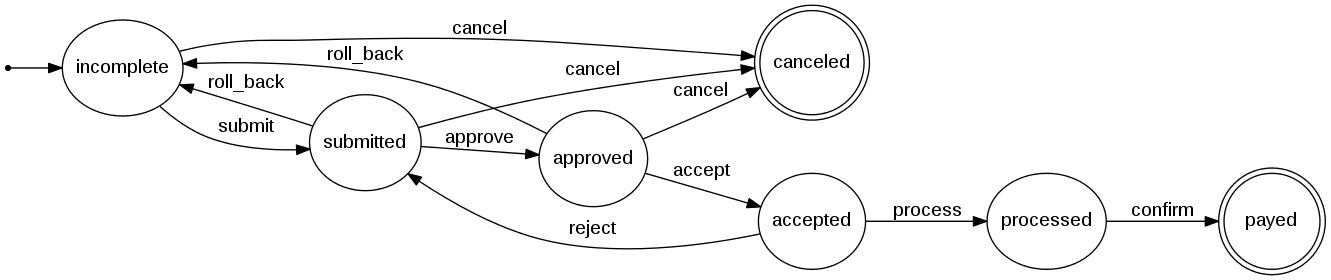
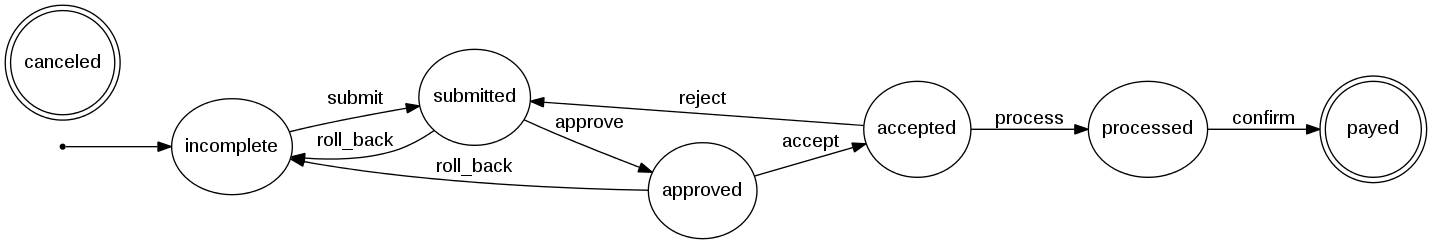
cancel is not longer handled by state_machine
* cancel method is not longer declared as a regular state_machine transition,
   but as a custom method which works very similar but with some subtle
   differences
 * new permissions for cancel, so now requesters can cancel already accepted
   requests or reimbursements

diff --git a/app/models/request.rb b/app/models/request.rb
@@ -55,13 +55,7 @@ class Request < ActiveRecord::Base
       transition :approved => :incomplete
     end
 
-    event :cancel do
-      # Separated transitions because grouping them using arrays confuses the
-      # Graphviz task for automatic documentation
-      transition :incomplete => :canceled
-      transition :submitted => :canceled
-      transition :approved => :canceled
-    end
+    state :canceled
   end
 
   # @see HasState.assign_state
@@ -90,11 +84,32 @@ class Request < ActiveRecord::Base
     state == 'submitted'
   end
 
+  # Checks whether a tsp user should be allowed to cancel
+  #
+  # tsp users cannot cancel a request if it has already been accepted by the
+  # requester
+  #
+  # @return [Boolean] true if allowed
+  def cancelable_by_tsp?
+    can_cancel? and not accepted?
+  end
+
   # Checks whether a user should be allowed to completely delete the request.
   #
   # @return [Boolean] true if allowed
   def can_be_destroyed?
     not with_transitions?
+  end
+
+  # Checks whether can have a transition to 'canceled' state
+  #
+  # Overrides the HasState.can_cancel?, preventing cancelation of requests that
+  # already have a reimbursement
+  # @see HasState.can_cancel?
+  #
+  # return [Boolean] true if #cancel can be called
+  def can_cancel?
+    not canceled? and reimbursement.nil?
   end
 
   # Checks whether the request is ready for reimbursement

diff --git a/lib/travel_support_program/has_state.rb b/lib/travel_support_program/has_state.rb
@@ -46,6 +46,35 @@ module TravelSupportProgram
       HasStateMailer::notify_to(people, :state, self, self.human_state_name, self.state_updated_at)
     end
 
+    # Sets the state to 'canceled'
+    #
+    # It works exactly in the same way that any other transition defined by
+    # state_machine. It's implemented in a separate way to keep the workflow as
+    # clean as possible. Since a cancelation can happen at any moment,
+    # implementing it as a regular transition could lead state_machine to the
+    # conclusion that 'canceled' is the only valid final state.
+    #
+    # return [Boolean] true if the state is updated
+    def cancel
+      return false if not can_cancel?
+      self.state = 'canceled'
+      self.state_updated_at = DateTime.now
+      save
+    end
+
+    # Checks whether can have a transition to 'canceled' state
+    #
+    # Compatibility for #cancel with transitions defined by state_machine.
+    # Default implementation always return true if state is not already
+    # 'canceled', meaning that a process can be canceled at any moment.
+    # Classes using this mixin should implement their own custom behaviour.
+    # @see #cancel
+    #
+    # return [Boolean] true if #cancel can be called
+    def can_cancel?
+      not canceled?
+    end
+
     protected
 
     # User internally to set the state_updated_at attribute

diff --git a/app/models/reimbursement.rb b/app/models/reimbursement.rb
@@ -79,11 +79,7 @@ class Reimbursement < ActiveRecord::Base
       transition :accepted => :submitted
     end
 
-    event :cancel do
-      transition :incomplete => :canceled
-      transition :submitted => :canceled
-      transition :approved  => :canceled
-    end
+    state :canceled
   end
 
   # @see HasState.assign_state
@@ -117,6 +113,27 @@ class Reimbursement < ActiveRecord::Base
   # @return [Boolean] true if allowed
   def editable_by_tsp?
     state == 'submitted'
+  end
+
+  # Checks whether a tsp user should be allowed to cancel
+  #
+  # tsp users cannot cancel a reimbursement if it has already been accepted
+  # by the requester
+  #
+  # @return [Boolean] true if allowed
+  def cancelable_by_tsp?
+    can_cancel? and not accepted?
+  end
+
+  # Checks whether can have a transition to 'canceled' state
+  #
+  # Overrides the HasState.can_cancel?, preventing cancelation of reimbursements
+  # that have already been processed
+  # @see HasState.can_cancel?
+  #
+  # return [Boolean] true if #cancel can be called
+  def can_cancel?
+    not canceled? and not processed? and not payed?
   end
 
   # Checks whether the reimbursement can have final notes

diff --git a/app/models/bank_account.rb b/app/models/bank_account.rb
@@ -9,11 +9,11 @@ class BankAccount < ActiveRecord::Base
   # The associated reimbursement
   belongs_to :reimbursement, :inverse_of => :bank_account
 
-  validates :holder, :presence => true, :unless => "reimbursement.incomplete?"
-  validates :bank_name, :presence => true, :unless => "reimbursement.incomplete?"
+  validates :holder, :presence => true, :unless => "reimbursement.incomplete? || reimbursement.canceled?"
+  validates :bank_name, :presence => true, :unless => "reimbursement.incomplete? || reimbursement.canceled?"
   validates :format, :presence => true, :inclusion => {:in => %w(iban national)}
-  validate :iban, :bic, :presence => true, :unless => "reimbursement.incomplete? || !iban?"
-  validate :national_account_code, :country_code, :presence => true, :unless => "reimbursement.incomplete? || iban?"
+  validate :iban, :bic, :presence => true, :unless => "reimbursement.incomplete? || reimbursement.canceled? || !iban?"
+  validate :national_account_code, :country_code, :presence => true, :unless => "reimbursement.incomplete? || reimbursement.canceled? || iban?"
 
   after_initialize :set_default_attrs, :if => :new_record?
 

diff --git a/spec/models/ability_spec.rb b/spec/models/ability_spec.rb
@@ -29,7 +29,7 @@ describe Ability do
       it{ should be_able_to(:destroy, requests(:luke_for_party)) }
       it{ should_not be_able_to(:destroy, requests(:luke_for_yavin)) }
       it{ should be_able_to(:cancel, requests(:luke_for_party)) }
-      it{ should_not be_able_to(:cancel, requests(:luke_for_yavin)) }
+      it{ should be_able_to(:cancel, requests(:luke_for_yavin)) }
     end
 
     context "trying to look into other's requests" do
@@ -120,7 +120,7 @@ describe Ability do
             it{ should be_able_to(:read, @reimbursement) }
             it{ should_not be_able_to(:update, @reimbursement) }
             it{ should_not be_able_to(:destroy, @reimbursement) }
-            it{ should_not be_able_to(:cancel, @reimbursement) }
+            it{ should be_able_to(:cancel, @reimbursement) }
             it{ should_not be_able_to(:approve, @reimbursement) }
             it{ should_not be_able_to(:roll_back, @reimbursement) }
             it{ should_not be_able_to(:accept, @reimbursement) }

diff --git a/app/models/ability.rb b/app/models/ability.rb
@@ -131,9 +131,12 @@ class Ability
       can :update, Request do |r|
         r.editable_by_tsp?
       end
-      # TSP members can approve, roll back or cancel any request, but only when
+      can :cancel, Request do |r|
+        r.cancelable_by_tsp?
+      end
+      # TSP members can approve and roll back any request, but only when
       # state_machines allows to do it
-      [:approve, :roll_back, :cancel].each do |action|
+      [:approve, :roll_back].each do |action|
         can action, Request do |r|
           r.send("can_#{action}?")
         end
@@ -144,7 +147,10 @@ class Ability
       can :update, Reimbursement do |r|
         r.editable_by_tsp?
       end
-      [:approve, :cancel, :roll_back].each do |action|
+      can :cancel, Reimbursement do |r|
+        r.cancelable_by_tsp?
+      end
+      [:approve, :roll_back].each do |action|
         can action, Reimbursement do |r|
           r.send("can_#{action}?")
         end

diff --git a/app/models/state_transition.rb b/app/models/state_transition.rb
@@ -24,13 +24,17 @@ class StateTransition < ActiveRecord::Base
 
   protected
 
-  def before_update
+  def prevent_update
     false
   end
 
   def fire_state_event
     self.from = machine.state
-    result = machine.fire_state_event(state_event.to_sym)
+    if state_event.to_sym == :cancel
+      result = machine.cancel
+    else
+      result = machine.fire_state_event(state_event.to_sym)
+    end
     self.to = machine.state
     result
   end
